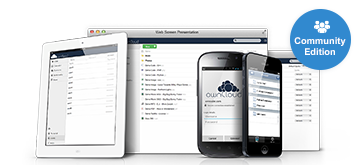
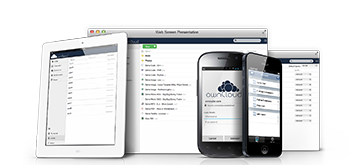
front page changes based on Achim's design

Changed region(s): [[0.7944, 0.0303, 0.9778, 0.4242]]

diff --git a/assets/css/styles.css b/assets/css/styles.css
@@ -359,9 +359,9 @@ a.join-button {
 }
 
 .home img.teaser-img {
-	margin-bottom: -5px;
-	margin-right: 75px;
-	margin-top: 20px;
+	margin-bottom: 0px;
+	margin-right: 15px;
+	margin-top: 30px;
 }
 
 @media (max-width: 1200px) { 
@@ -400,31 +400,31 @@ button a {color: #1d2d44}
 button a:hover {text-decoration: none; }
 
 /*---- Teaser ----*/
-.teaser-area h1 {color: #1d2d44; font-weight: normal; margin-bottom: 20px; font-size: 36px; }
+.teaser-area h1 {color: #1d2d44; font-weight: normal; margin-bottom: 20px; font-size: 32px; }
 .teaser-area {padding-top: 20px; text-align: center;}
-.teaser-area p {font-size: 20px; line-height: 28px; color: #666; padding-left: 30px; padding-right: 30px }
-.teaser-area .btn {margin-top: 10px;}
+.teaser-area p {font-size: 20px; line-height: 28px; color: #666; padding-left: 30px; padding-right: 30px}
+.teaser-area .btn {margin-top: 20px;}
 .image {margin-top: 40px}
 .image img {margin: 0 auto}
 .separator {height: 50px; margin-bottom: -10px; border-top: 1px solid #ddd; background: #f6f6f6; 
-background: -moz-linear-gradient(top,  #f6f6f6 0%, #efefef 60%, #efefef 100%); 
-background: -webkit-gradient(linear, left top, left bottom, color-stop(0%,#f6f6f6), color-stop(60%,#efefef), color-stop(100%,#efefef)); 
-background: -webkit-linear-gradient(top,  #f6f6f6 0%,#efefef 60%,#efefef 100%); 
+background: -moz-linear-gradient(top,  #f6f6f6 0%, #efefef 60%, #efefef 100%);
+background: -webkit-gradient(linear, left top, left bottom, color-stop(0%,#f6f6f6), color-stop(60%,#efefef), color-stop(100%,#efefef));
+background: -webkit-linear-gradient(top,  #f6f6f6 0%,#efefef 60%,#efefef 100%);
 background: -o-linear-gradient(top,  #f6f6f6 0%,#efefef 60%,#efefef 100%);
-background: -ms-linear-gradient(top,  #f6f6f6 0%,#efefef 60%,#efefef 100%); 
-background: linear-gradient(to bottom,  #f6f6f6 0%,#efefef 60%,#efefef 100%); 
+background: -ms-linear-gradient(top,  #f6f6f6 0%,#efefef 60%,#efefef 100%);
+background: linear-gradient(to bottom,  #f6f6f6 0%,#efefef 60%,#efefef 100%);
 filter: progid:DXImageTransform.Microsoft.gradient( startColorstr='#f6f6f6', endColorstr='#efefef',GradientType=0 );
 }
 
 /*---- Feature Columns ----*/
-.feature-cols {padding-top: 30px}
-.feature-block {background: #ddd; margin-bottom: 30px; position: relative; min-height: 325px !important}
-.feature-block h2 {color: #777; margin-top: 0; font-size: 20px; font-weight: normal; padding-top: 50px; padding-bottom: 8px}
-.feature-block p {font-size: 14px; color: #777; padding-bottom: 30px; padding-left: 15px; padding-right: 15px;}
+.feature-cols {padding-top: 20px}
+.feature-block {background: #dadada; margin-bottom: 80px; position: relative; min-height: 350px !important}
+.feature-block h2 {color: #1D2D44; margin-top: 0; font-size: 18px; font-weight: normal; padding-top: 20px; padding-bottom: 8px}
+.feature-block p {font-size: 14px; color: #666; padding-bottom: 10px; padding-left: 15px; padding-right: 15px;}
 .feature-block  {overflow: hidden;}
 .feature-block img {margin: 0 auto}
 .img-container {background: #fff}
-.img-container.primary {background: #577c8e;
+.img-container.primary {background: #F0F0F0;
 background: -moz-linear-gradient(top, #577c8e 0%, #bdd4e0 100%);
 background: -webkit-gradient(linear, left top, left bottom, color-stop(0%,#577c8e), color-stop(100%,#bdd4e0));
 background: -webkit-linear-gradient(top, #577c8e 0%,#bdd4e0 100%);
@@ -432,7 +432,7 @@ background: -o-linear-gradient(top, #577c8e 0%,#bdd4e0 100%);
 background: -ms-linear-gradient(top, #577c8e 0%,#bdd4e0 100%);
 background: linear-gradient(to bottom, #577c8e 0%,#bdd4e0 100%);
 filter: progid:DXImageTransform.Microsoft.gradient( startColorstr='#577c8e', endColorstr='#bdd4e0',GradientType=0 );}
-.img-container.enterprise { 
+.img-container.enterprise {
 background: #838ca1;
 background: -moz-linear-gradient(-45deg, #838ca1 0%, #cdd3dd 100%);
 background: -webkit-gradient(linear, left top, right bottom, color-stop(0%,#838ca1), color-stop(100%,#cdd3dd));
@@ -445,7 +445,7 @@ filter: progid:DXImageTransform.Microsoft.gradient( startColorstr='#838ca1', end
 
 /*---- Carousel ----*/
 #carousel-example-generic .carousel-inner,
-#carousel-example-generic .item {height: 100%; min-height: 325px !important}
+#carousel-example-generic .item {height: 100%; min-height: 350px !important}
 .img-con {background: #fff}
 
 /*---- Hover-Area ----*/
@@ -457,13 +457,13 @@ filter: progid:DXImageTransform.Microsoft.gradient( startColorstr='#838ca1', end
 	-moz-transition: all 0.3s linear;
 	-o-transition: all 0.3s linear;
 	transition: all 0.3s linear; }
-.hovercontent p {color: #fff; text-align: center; font-size: 16px; padding: 28px 30px 0 30px}
+.hovercontent p {color: #fff; text-align: center; font-size: 14px; padding: 28px 30px 0 30px}
 .hide-type {color: #ddd !important; transition: 0.3s;}
 .hoverarea span {line-height: 12px}
 .button-group {position: absolute; bottom: 40px; left:0; right: 0;}
 .button-group .btn {font-size: 14px; color: #1d2d44}
 .button-group .btn:hover {background: #ccc; transition: 0.2s; color: #3772A7}
-.hovercontent h2 { padding-bottom:8px; color: #fff; transition: 0.3s; font-weight: normal;}
+.hovercontent h2 { padding-bottom:20px; color: #fff; transition: 0.3s; font-weight: normal;}
 .hoverarea:hover .icon { 
 	background-color: #428BCA;
 	-webkit-transform: scale(1.2);
@@ -477,14 +477,29 @@ filter: progid:DXImageTransform.Microsoft.gradient( startColorstr='#838ca1', end
 	 filter: alpha(opacity = 100);
 }
 
+/*---- Small Screens----*/
+
+@media (min-width: 768px) and (max-width: 992px) {
+
+	.teaser-area h1 { font-size: 26px; text-align: left; padding-right: 0px }
+	.teaser-area p {text-align: left; padding-left: 0; font-size: 16px; line-height: 22px}
+	.button-group a.btn {   margin: 0 auto; margin-top: 10px}
+	.hovercontent p {font-size: 12px}
+	.hovercontent h2 { padding-bottom: 0px}
+	.feature-block h2 { padding-left: 10px; padding-right: 10px}
+	.feature-block {min-height: 350px !important}
+	#carousel-example-generic, #carousel-example-generic .item {min-height: 300px !important}
+	#carousel-example-generic .carousel-inner, #carousel-example-generic .item {min-height: 300px !important}
+
+}
 
 /*---- Medium Screens and Up ----*/
 
-@media (min-width: 992px)  { 
+@media (min-width: 992px)  {
 
 	/*---- Teaser ----*/
 	.teaser-area {text-align: left;padding-top:40px;}
-	.teaser-area h1 {margin-bottom: 15px; margin-top: -35px; }
+	.teaser-area h1 {margin-bottom: 15px; padding-right: 30px }
 	.teaser-area p {padding-left: 0px; padding-right: 0px }
 
 	/*---- Feature Columns ----*/
@@ -507,8 +522,8 @@ filter: progid:DXImageTransform.Microsoft.gradient( startColorstr='#838ca1', end
 	.btn {font-size: 14px}
 
 	/*---- Feature Columns ----*/
-	.feature-cols {padding-top: 45px}
-	.feature-block h2 {padding-top: 65px}
+	.feature-cols {padding-top: 30px}
+	.feature-block h2 {padding-top: 35px}
 	.feature-block.primary { margin-top: -15px}
 
 	/*---- Hover-Area ----*/
@@ -521,7 +536,7 @@ filter: progid:DXImageTransform.Microsoft.gradient( startColorstr='#838ca1', end
 @media (min-width: 1200px) { 
 
 	/*---- Teaser ----*/
-	.teaser-area {padding-top:60px;}
+	.teaser-area {padding-top:20px;}
 	.teaser-area p { padding-right: 100px}
 	.image {margin-top: 0}
 	.image img {float: right; margin-right: 15px;}

diff --git a/page-homepage.php b/page-homepage.php
@@ -3,14 +3,14 @@
 <!-- Teaser Area -->
 <div class="container teaser-area">
 	<div class="row">
-		<div class="col-lg-7 col-md-6">
+		<div class="col-lg-7 col-md-6 col-sm-5">
 			<h1><small>Introducing</small><br>ownCloud Server <?php echo $VERSIONS_SERVER_MAJOR_STABLE; ?>.0</h1>
 			<p>Access your data from all your devices, on an open platform you can extend and modify.</p>
 			<p><a class="btn btn-primary btn-lg" role="button" href="/eight">Learn more &raquo;</a></p>
 		</div>
-		<div id="image-container" class="col-lg-5 col-md-6">
+		<div id="image-container" class="col-lg-5 col-md-6 col-sm-7">
 			<div class="image">
-				<img src="<?php echo get_template_directory_uri(); ?>/assets/img/screenshots/serverwebui.png" class="teaser-img img-thumbnail img-responsive" alt="ownCloud 7" />
+				<a href="/eight"><img src="<?php echo get_template_directory_uri(); ?>/assets/img/home/teaser.png" class="teaser-img img-responsive" alt="ownCloud <?php echo $VERSIONS_SERVER_MAJOR_STABLE; ?>" /></a>
 			</div>
 		</div>
 	</div>
@@ -57,7 +57,7 @@
 			<div class="item ">
 				<div class="hoverarea">
 					<div class="hovercontent">
-						<p>Become part of the ownCloud Community and help us liberate data accross the globe!</p>
+						<p>Become part of the ownCloud Community and help us liberate data across the globe!</p>
 						<div class="button-group text-center">
 							<h2>Contribute</h2>
 							<a href="/contribute/" target="_blank"><button type="button" class="btn btn-lg">Make ownCloud better</button></a>
@@ -78,7 +78,7 @@
 			<div class="item ">
 				<div class="hoverarea">
 					<div class="hovercontent">
-						<p>Widgets shows you the most important information quick and easy</p>
+						<p>Widgets shows you quick and easy the most important information</p>
 						<div class="button-group text-center">
 							<h2>ocDashboard</h2>
 							<a href="https://apps.owncloud.com/content/show.php/ocDashboard?content=160265" target="_blank"><button type="button" class="btn btn-lg">Get ocDashboard</button></a>
@@ -149,9 +149,9 @@
 		<div class="feature-block">
 		<div class="hoverarea">
 			<div class="hovercontent">
-				<p>Put it on a Rasberry Pi at home, on an old desktop or on your NAS. Pick an ownCloud provider you trust, or rent a server somewhere.</p>
+				<p>Music • Calendar • Contacts • Files • Video • More</p>
 				<div class="button-group text-center">
-				<h2>Own Your Data</h2>
+				<h2>Host your own data</h2>
 				<a href="https://www.youtube.com/watch?v=Dn_YJYFVrms" target="_blank"><button type="button" class="btn btn-lg"><span class="glyphicon glyphicon-play-circle"></span> Demo Video</button></a>
 				<a href="/features/" target="_blank"><button type="button" class="btn btn-lg">More Features</button></a>
 				</div>
@@ -161,8 +161,8 @@
 			<img src="<?php echo get_template_directory_uri(); ?>/assets/img/home/teaser-owncloud.jpg" class="img-responsive hidden-xs hidden-sm" alt="...">
 			<img src="<?php echo get_template_directory_uri(); ?>/assets/img/home/teaser-owncloud-small.png" class="img-responsive hidden-md hidden-lg" alt="...">
 		</div>
-		<h2 class="text-center hoverfade">Own Your Data</h2>
-		<p class="text-center hoverfade">Host your data where you want</p>
+		<h2 class="text-center hoverfade">Host your own data</h2>
+		<p class="text-center hoverfade">Share files, music and contacts on your terms.</p>
 		</div>
 	 </div>
 
@@ -170,9 +170,9 @@
 		<div class="feature-block">
 		<div class="hoverarea">
 			<div class="hovercontent">
-				<p>Looking for ownCloud for your business? Enterprise-ready file sync and share!</p>
+				<p>Windows network drives • SharePoint • SAML • S3• More</p>
 				<div class="button-group text-center">
-				<h2>Own Your Business</h2>
+				<h2>Relying on ownCloud<br /> in your business?</h2>
 				<a href="https://vimeo.com/91033287" target="_blank"><button type="button" class="btn btn-lg"><span class="glyphicon glyphicon-play-circle"></span> Demo Video</button></a>
 				<a href="https://owncloud.com/lp/community-or-enterprise/" target="_blank"><button type="button" class="btn btn-lg">Learn More</button></a>
 				</div>
@@ -182,8 +182,8 @@
 			<img src="<?php echo get_template_directory_uri(); ?>/assets/img/home/teaser-own-your-business.jpg" class="img-responsive hidden-xs hidden-sm" alt="...">
 			<img src="<?php echo get_template_directory_uri(); ?>/assets/img/home/teaser-own-your-business-small.png" class="img-responsive hidden-md hidden-lg" alt="...">
 		</div>
-		<h2 class="text-center hoverfade">Own Your Business</h2>
-		<p class="text-center hoverfade">Run ownCloud in your Enterprise</p>
+		<h2 class="text-center hoverfade">Relying on ownCloud<br /> in your business?</h2>
+		<p class="text-center hoverfade">Learn about support options and enterprise features.</p>
 		</div>
 	</div>
 
